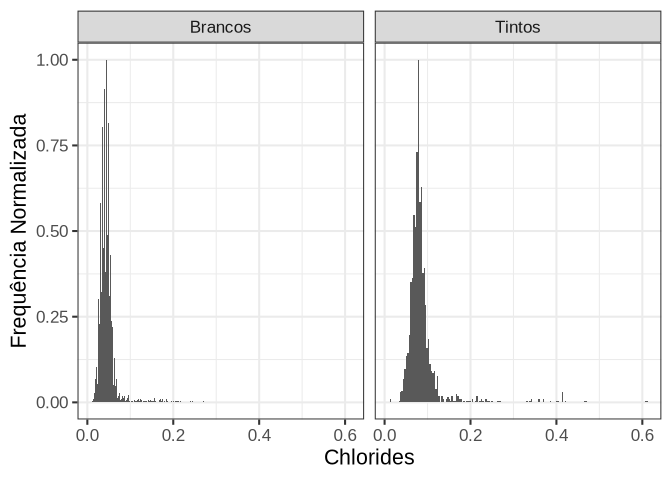
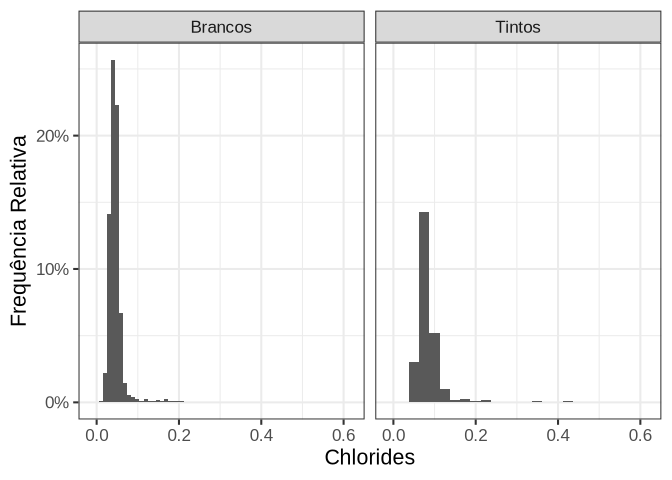
Melhorei os violin plots e os histogramas
- Removi mais código desnecessário.
- Adicionei a opção cache=TRUE a alguns chunks.
- Melhorei o código para gerar os violin plots e adicionei as novas
figuras.
- Adicionei outra função para calcular a largura das barras dos
histogramas.
- Melhorei o código para gerar os histogramas e adicionei as novas
figuras.

diff --git a/r/analise_exploratoria.md b/r/analise_exploratoria.md
@@ -1,5 +1,4 @@
-Fatos Básicos
--------------
+## Fatos Básicos
 
 Para começar, vamos considerar alguns fatos básicos sobre o conjunto de
 dados que está no arquivo `vinhos.csv`.
@@ -439,9 +438,6 @@ tintos e a outra com os vinhos brancos.
 
 **Violin plot da variável na coluna `fixed.acidity`:**
 
-    ## Warning in regularize.values(x, y, ties, missing(ties), na.rm = na.rm):
-    ## collapsing to unique 'x' values
-
 ![](analise_exploratoria_files/figure-markdown_strict/violin_fixed_acidity-1.png)
 
 **Violin plot da variável na coluna `volatile.acidity`:**
@@ -450,49 +446,25 @@ tintos e a outra com os vinhos brancos.
 
 **Violin plot da variável na coluna `citric.acid`:**
 
-    ## Warning in regularize.values(x, y, ties, missing(ties), na.rm = na.rm):
-    ## collapsing to unique 'x' values
-
 ![](analise_exploratoria_files/figure-markdown_strict/violin_citric_acid-1.png)
 
 **Violin plot da variável na coluna `residual.sugar`:**
-
-    ## Warning in regularize.values(x, y, ties, missing(ties), na.rm = na.rm):
-    ## collapsing to unique 'x' values
-
-    ## Warning in regularize.values(x, y, ties, missing(ties), na.rm = na.rm):
-    ## collapsing to unique 'x' values
 
 ![](analise_exploratoria_files/figure-markdown_strict/violin_residual_sugar-1.png)
 
 **Violin plot da variável na coluna `chlorides`:**
 
-    ## Warning in regularize.values(x, y, ties, missing(ties), na.rm = na.rm):
-    ## collapsing to unique 'x' values
-
-    ## Warning in regularize.values(x, y, ties, missing(ties), na.rm = na.rm):
-    ## collapsing to unique 'x' values
-
 ![](analise_exploratoria_files/figure-markdown_strict/violin_chlorides-1.png)
 
 **Violin plot da variável na coluna `free.sulfur.dioxide`:**
-
-    ## Warning in regularize.values(x, y, ties, missing(ties), na.rm = na.rm):
-    ## collapsing to unique 'x' values
 
 ![](analise_exploratoria_files/figure-markdown_strict/violin_free_sulfur_dioxide-1.png)
 
 **Violin plot da variável na coluna `total.sulfur.dioxide`:**
 
-    ## Warning in regularize.values(x, y, ties, missing(ties), na.rm = na.rm):
-    ## collapsing to unique 'x' values
-
 ![](analise_exploratoria_files/figure-markdown_strict/violin_total_sulfur_dioxide-1.png)
 
 **Violin plot da variável na coluna `density`:**
-
-    ## Warning in regularize.values(x, y, ties, missing(ties), na.rm = na.rm):
-    ## collapsing to unique 'x' values
 
 ![](analise_exploratoria_files/figure-markdown_strict/violin_density-1.png)
 
